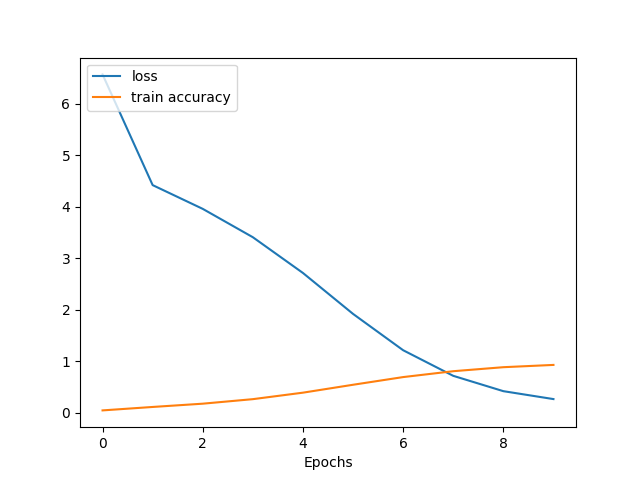
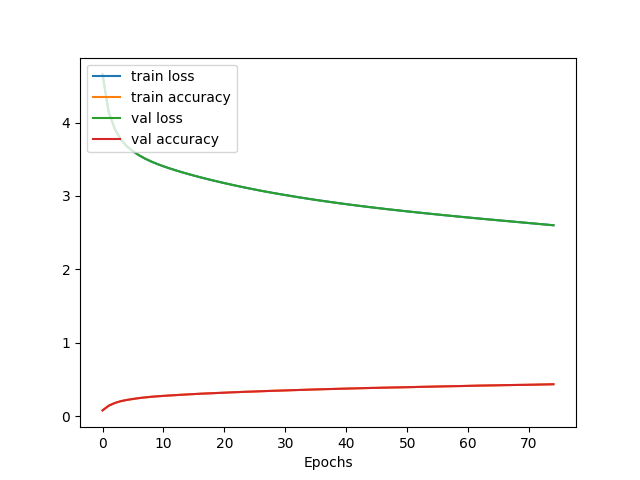
36% val accuracy achieved

diff --git a/deep_learning/model.py b/deep_learning/model.py
@@ -11,35 +11,30 @@ class FoodClassifier(nn.Module):
     super(FoodClassifier, self).__init__()
     self.n_classes = n_classes
 
+    # TODO: img_size 224x224 kernel_size 3
+    # TODO: optimize this part of the net (maybe more conv layers? or same with no BN?)
     # Convolutional Layers (Feature Detector)
-    self.conv1 = nn.Conv2d(3, 64, 5)
-    self.conv2_bn1 = nn.BatchNorm2d(64)
-    self.pool = nn.MaxPool2d(2, 2)
-    self.conv2 = nn.Conv2d(64, 128, 5)
-    self.conv2_bn2 = nn.BatchNorm2d(128)
-    self.conv3 = nn.Conv2d(128, 256, 5)
-    self.conv2_bn3 = nn.BatchNorm2d(256)
-    #self.conv4 = nn.Conv2d(256, 512, 5)
-    #self.conv2_bn4 = nn.BatchNorm2d(512)
-
-    self.dropout = nn.Dropout(0.5)
+    #self.pool = nn.MaxPool2d(2, 2)
+    self.pool = nn.AvgPool2d(2, 2)
+    self.conv1 = nn.Conv2d(3, 32, 5)
+    self.conv2_bn1 = nn.BatchNorm2d(32)
+    self.conv2 = nn.Conv2d(32, 64, 5)
+    self.conv2_bn2 = nn.BatchNorm2d(64)
+    self.conv3 = nn.Conv2d(64, 128, 5)
+    self.conv2_bn3 = nn.BatchNorm2d(128)
+    self.conv4 = nn.Conv2d(128, 256, 5)
+    self.conv2_bn4 = nn.BatchNorm2d(256)
 
     # Fully Connected Layers (Classifier)
-    #self.fc1 = nn.Linear(256 * 12 * 12, 64)
-    #self.bn1 = nn.BatchNorm1d(num_features=64)
-    #self.fc2 = nn.Linear(64, self.n_classes)
-    self.fc = nn.Linear(256*12*12, self.n_classes)
+    self.fc = nn.Linear(256*4*4, self.n_classes)
 
   def forward(self, x):
     x = self.pool(F.relu(self.conv2_bn1(self.conv1(x))))
     x = self.pool(F.relu(self.conv2_bn2(self.conv2(x))))
     x = self.pool(F.relu(self.conv2_bn3(self.conv3(x))))
-    #x = self.pool(F.relu(self.conv2_bn4(self.conv4(x))))
+    x = self.pool(F.relu(self.conv2_bn4(self.conv4(x))))
     #print(x.shape)
     x = x.view(-1, self.num_flat_features(x))
-    #x = F.relu(self.bn1(self.fc1(x)))
-    #x = self.dropout(x)
-    #x = self.fc2(x)
     x = self.fc(x)
     return x
 

diff --git a/deep_learning/util.py b/deep_learning/util.py
@@ -1,32 +1,31 @@
 # Constants
 
 # Image Resolution (CHANGE ACCORDING TO NETWORK'S EFFICIENCY AND RAM USAGE)
-#IMG_SIZE = 128
-IMG_SIZE = 299    # for inceptionv3
+IMG_SIZE = 128
 DISP_RES = 1080//2
 
 # Model Paths
-#model_path = "../models/classifier_251.pth"
+model_path = "../models/classifier_251.pth"
 #model_path = "../models/resnet18_classifier_251.pth"
-model_path = "../models/inceptionv3_251.pth"
-#onnx_path = "../models/classifier_251.onnx"
+#model_path = "../models/inceptionv3_251.pth"
+onnx_path = "../models/classifier_251.onnx"
 #onnx_path = "../models/resnet18_classifier_251.onnx"
-onnx_path = "../models/inceptionv3_251.onnx"
-#cpp_model_path = "../models/classifier_251.pt"
+#onnx_path = "../models/inceptionv3_251.onnx"
+cpp_model_path = "../models/classifier_251.pt"
 #cpp_model_path = "../models/resnet18_classifier_251.ptl"
-cpp_model_path = "../models/inceptionv3_251.ptl"
-#classes_path = "../models/classes.json"
-#light_model_path = "../models/classifier_251.ptl"
+#cpp_model_path = "../models/inceptionv3_251.ptl"
+light_model_path = "../models/classifier_251.ptl"
 #light_model_path = "../models/resnet18_classifier_251.ptl"
-light_model_path = "../models/inceptionv3_251.ptl"
+#light_model_path = "../models/inceptionv3_251.ptl"
 
+#classes_path = "../models/classes.json"
 classes_path = "../models/classes_251.json"
 
 # plot paths
-#train_plot = "../plots/training_stats.png"
-#eval_plot = "../plots/evaluation_stats.png"
-train_plot = "../plots/training_stats_inc251.png"
-eval_plot = "../plots/evaluation_stats_inc251.png"
+train_plot = "../plots/training_stats_251.png"
+eval_plot = "../plots/evaluation_stats_251.png"
+#train_plot = "../plots/training_stats_inc251.png"
+#eval_plot = "../plots/evaluation_stats_inc251.png"
 
 # Data Paths
 base_dir = "../data/"

diff --git a/deep_learning/train.py b/deep_learning/train.py
@@ -11,16 +11,17 @@ def train(model, images, labels, timages, tlabels, classes):
   loss_function = nn.CrossEntropyLoss()
   #lr = 1e-4  # full dataset
   #lr = 1e-3  # food-101
-  lr = 1e-3   # food-251
-  optim = torch.optim.Adam(model.parameters(), lr=lr, weight_decay=0)  # TODO: play with weight decay (1e-3, 1e-4, 0)
+  lr = 1e-4   # food-251
+  wd = 1e-2   # TODO: 0.01, 0.1
+  optim = torch.optim.Adam(model.parameters(), lr=lr, weight_decay=wd)
 
   losses, accuracies = [], []
   vlosses, vaccuracies = [], []
-  BS = 256
-  EBS = 256
+  BS = 128
+  EBS = 32
   #epochs = 250 # full dataset
   #epochs = 100 # food-101
-  epochs = 30  # food-251
+  epochs = 75  # food-251
 
   try:
     for epoch in range(epochs):
@@ -147,8 +148,8 @@ if __name__ == '__main__':
   #writer.add_image('food_images', img_grid)
 
   # train
-  #model = FoodClassifier(len(classes)).to(device)
-  model = init_resnet(len(classes), IMG_SIZE, device)
+  model = FoodClassifier(len(classes)).to(device)
+  #model = init_resnet(len(classes), IMG_SIZE, device)
   #model = init_inception(len(classes), IMG_SIZE, device)
   model = train(model, images, labels, test_imgs, test_lbls, classes)
   save_model(model, model_path)

diff --git a/deep_learning/app.py b/deep_learning/app.py
@@ -33,8 +33,8 @@ if __name__ == '__main__':
   print("[+] %d classes loaded"%len(classes))
 
   # load model
-  #model = FoodClassifier(len(classes)).to(device)
-  model = init_resnet(len(classes), IMG_SIZE, device)
+  model = FoodClassifier(len(classes)).to(device)
+  #model = init_resnet(len(classes), IMG_SIZE, device)
   model = load_model(model, model_path)
 
   # make tensor
